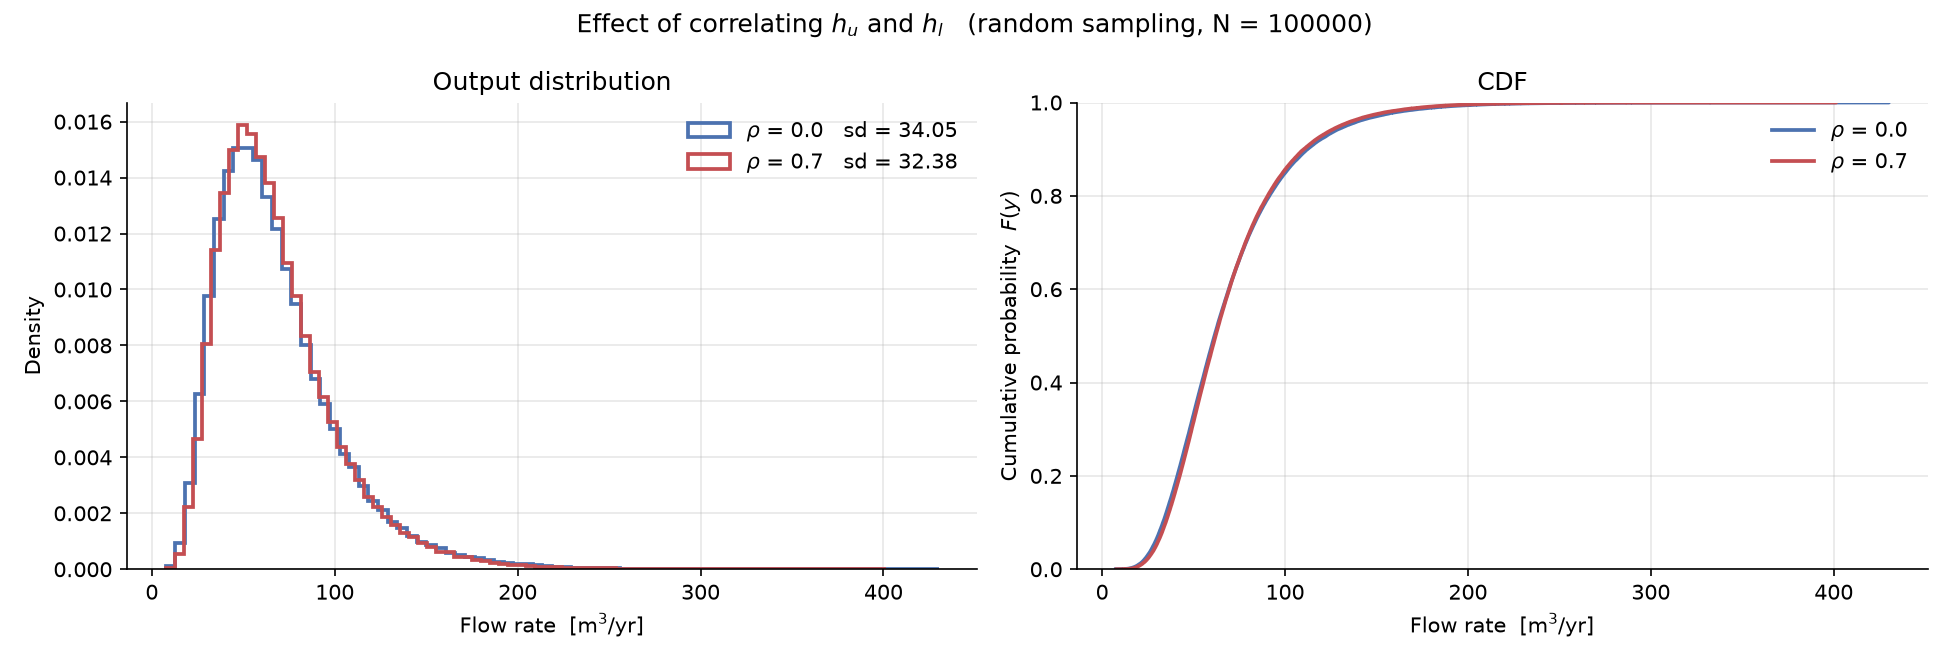
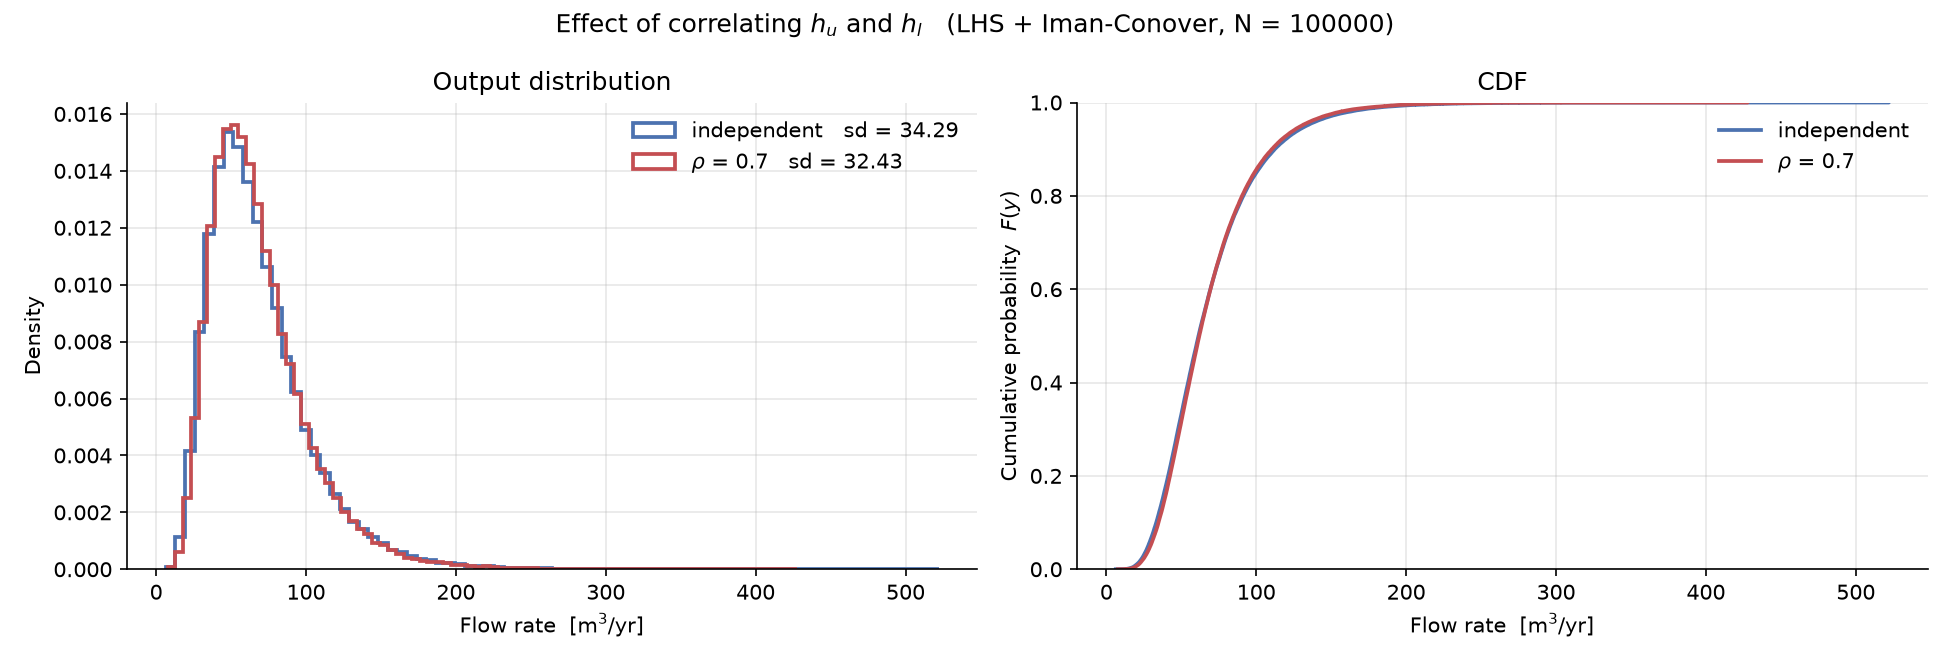
change to iman conover method

diff --git a/scripts/03_correlated.py b/scripts/03_correlated.py
@@ -1,7 +1,4 @@
 """Correlated inputs: uncertainty analysis with rho = 0.7 between h_u and h_l.
-
-Both cases use the same sampler and the same seed, so the only thing that
-differs between them is the correlation.
 """
 
 from pathlib import Path
@@ -10,12 +7,13 @@ import matplotlib.pyplot as plt
 import numpy as np
 
 from uq_sa_assignment.borehole_func import func
-from uq_sa_assignment.distributions import NAMES, sample_X_correlated
+from uq_sa_assignment.distributions import (NAMES, correlation_matrix,
+                                            iman_conover, sample_X)
 
 FIGDIR = Path(__file__).resolve().parents[1] / "figures"
 FIGDIR.mkdir(exist_ok=True)
 
-N = 10**5          
+N = 10**5
 SEED = 1234
 RHO = 0.7
 
@@ -23,10 +21,10 @@ i_hu = NAMES.index('h_u')
 i_hl = NAMES.index('h_l')
 
 # --- the two samples --------------------------------------------------------
-X0 = sample_X_correlated(N, SEED, rho=0.0)      # independent control
+X0 = sample_X(N, SEED)                                    
 Y0 = func(X0)
 
-X7 = sample_X_correlated(N, SEED, rho=RHO)      # correlated case
+X7 = iman_conover(X0, correlation_matrix(RHO), seed=42)
 Y7 = func(X7)
 
 # --- statistics side by side ------------------------------------------------
@@ -41,19 +39,19 @@ def stats(Y):
 
 s0, s7 = stats(Y0), stats(Y7)
 
-print(f"\n{'quantity':10} {'rho = 0':>12} {'rho = ' + str(RHO):>12} {'change':>10}")
+print(f"\n{'quantity':10} {'independent':>12} {'rho = ' + str(RHO):>12} {'change':>10}")
 for k in ['mean', 'sd', 'var', 'MCerr', 'median']:
     print(f"{k:10} {s0[k]:>12.4f} {s7[k]:>12.4f} {s7[k]-s0[k]:>+10.4f}")
 
 # --- figure: histograms and CDFs overlaid -----------------------------------
 fig, axs = plt.subplots(1, 2, figsize=(13, 4.4))
 
-for Y, rho, c in [(Y0, 0.0, '#4C72B0'), (Y7, RHO, '#C44E52')]:
+for Y, lab, c in [(Y0, 'independent', '#4C72B0'), (Y7, rf'$\rho$ = {RHO}', '#C44E52')]:
     axs[0].hist(Y, bins=80, density=True, histtype='step', lw=1.8,
-                color=c, label=rf'$\rho$ = {rho}   sd = {Y.std(ddof=1):.2f}')
+                color=c, label=f'{lab}   sd = {Y.std(ddof=1):.2f}')
     ys = np.sort(Y)
     axs[1].step(ys, np.arange(1, N + 1) / N, where='post', lw=1.8, color=c,
-                label=rf'$\rho$ = {rho}')
+                label=lab)
 
 axs[0].set_ylabel('Density')
 axs[0].set_title('Output distribution')
@@ -68,7 +66,7 @@ for a in axs:
     a.spines[['top', 'right']].set_visible(False)
 
 fig.suptitle(f'Effect of correlating $h_u$ and $h_l$   '
-             f'(random sampling, N = {N})')
+             f'(LHS + Iman-Conover, N = {N})')
 fig.tight_layout()
 fig.savefig(FIGDIR / 'correlated_uncertainty.png', dpi=150)
 

diff --git a/src/uq_sa_assignment/distributions.py b/src/uq_sa_assignment/distributions.py
@@ -46,21 +46,33 @@ def sample_X(n, seed, method='lhs'):
     return np.stack([d.ppf(u[:, j]) for j, d in enumerate(DISTS)], axis=1)
 
 
-def sample_X_correlated(n, seed, rho):
-    """Like sample_X, but with h_u and h_l positively correlated.
+def correlation_matrix(rho, pair=('h_u', 'h_l')):
+    """M x M target correlation matrix: identity, plus rho between `pair`."""
+    C = np.eye(M)
+    i, j = NAMES.index(pair[0]), NAMES.index(pair[1])
+    C[i, j] = C[j, i] = rho
+    return C
+
+
+def iman_conover(X, target_corr, seed=0):
+    """Reorder each column of X so the sample matches `target_corr`.
+
+    Every column keeps exactly the values it already had, so the marginals
+    are preserved exactly. Only which values share a row changes.
     """
-    rng = np.random.default_rng(seed)
+    n, m = X.shape
 
-    # 1. eight columns of bell-curve numbers, not uniform ones: blending
-    z = rng.standard_normal((n, M))
+    # 1. a throwaway template with the correlation we want.
+    L = np.linalg.cholesky(target_corr)
+    Z = np.random.default_rng(seed).standard_normal((n, m))
+    Zc = Z @ L.T
 
-    # 2. rebuild the h_l column as a blend of its partner and itself.
-    i_hu = NAMES.index('h_u')
-    i_hl = NAMES.index('h_l')
-    z[:, i_hl] = rho * z[:, i_hu] + np.sqrt(1 - rho**2) * z[:, i_hl]
+    # 2. the template's rank pattern.
+    ranks = np.argsort(np.argsort(Zc, axis=0), axis=0)
 
-    # 3. back to numbers between 0 and 1. norm.cdf preserves order, so the
-    u = norm.cdf(z)
-
-    # 4. same final step as sample_X
-    return np.stack([d.ppf(u[:, j]) for j, d in enumerate(DISTS)], axis=1)
+    # 3. deal our real values out following that pattern
+    X_sorted = np.sort(X, axis=0)
+    out = np.zeros_like(X)
+    for j in range(m):
+        out[:, j] = X_sorted[ranks[:, j], j]
+    return out
